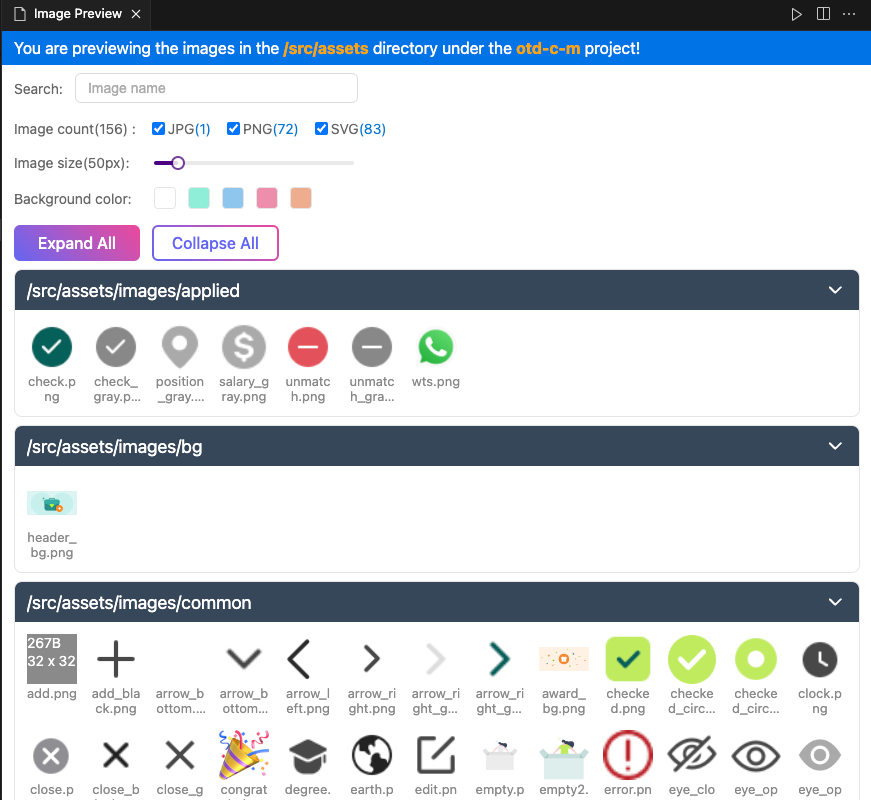
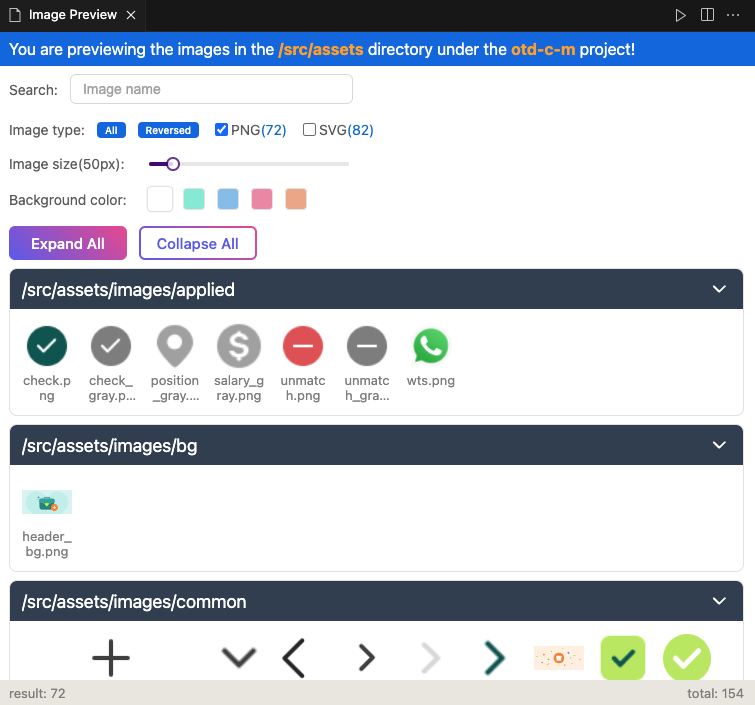
doc: release 1.3.2

diff --git a/src/webview/index.tsx b/src/webview/index.tsx
@@ -375,7 +375,12 @@ const App: React.FC = () => {
                         });
                   }}
                 >
-                  <img className="image" src={image.url} alt={image.name} />
+                  <img
+                    className="image"
+                    src={image.url}
+                    alt={image.name}
+                    loading="lazy"
+                  />
                   <div
                     className={
                       currentImageUrl === image.url && imageBasicInfo[image.url]

diff --git a/README.md b/README.md
@@ -1,6 +1,6 @@
 ## Image Preview
 
-This is a powerful VSCode extension that allows you to preview all images in the folder, including `jpg`, `jpeg`, `png`, `gif`, `webp`, `svg`.
+This is a powerful VSCode extension that allows you to preview all images in the folder, including `ico`, `jpg`, `jpeg`, `png`, `gif`, `webp`, `svg`.
 
 ![image-preview](./assets/webview_ui.png)
 
@@ -13,12 +13,12 @@ Find the folder you want to preview, and right-click to select `Image Preview`.
 ## Features
 
 - Recursive preview of all images in the folder.
-- Obtain the height, width, and original size of the image.
-- Adjust the image size and background color.
+- Display the height, width, and original size of the image when hovering.
+- Support adjusting the image size and background color.
 - Support filtering by image type.
 - Support searching by image name.
-- Copy the image name to the clipboard.
-- Convert the image to base64, and copy to the clipboard.
+- Click the image name to copy it to the clipboard.
+- Click the image to convert it to base64, and copy to the clipboard.
 
 ## Contact me
 

diff --git a/CHANGELOG.md b/CHANGELOG.md
@@ -1,5 +1,12 @@
 # Change Log
 
+## [1.3.2] - 2025-02-17
+
+### Optimized
+
+- Support previewing `ico` images.
+- Image type supports all selection and inverse selection.
+
 ## [1.3.1] - 2025-02-17
 
 ### Optimized
